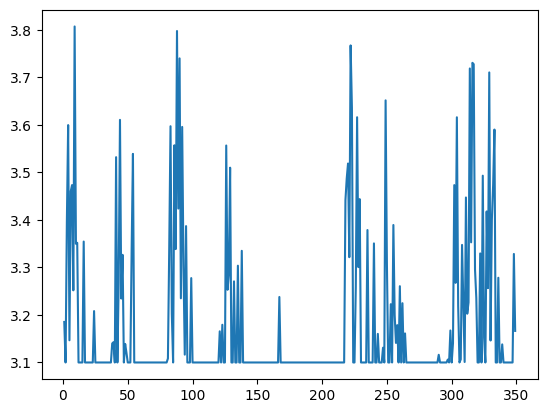
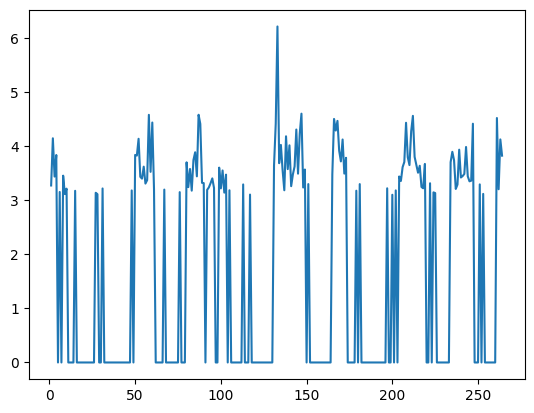
Finally made the gradient frame key frame extraction possible

diff --git a/Tutorials/Camera/Camera_Test5.py b/Tutorials/Camera/Camera_Test5.py
@@ -4,7 +4,9 @@ import matplotlib.pyplot as plt
 import Application.utils as utils
 import Application.HandTrackingModule as HTM
 import Application.SignClassificationModule as SCM
+from tensorflow import keras
 import imutils
+import shutil
 import os
 
 # Open the camera
@@ -14,15 +16,46 @@ detector = HTM.HandDetector()
 text = 'Not Capturing'
 is_capturing = False
 
-frm_num_arr = []
-frm_gradients = []
-prevGradient = np.array([])
-frm_arr = []
-
-frm_num = 0
-figures_path = 'D:\Documents\Thesis\FSLRwithNLP\Tutorials\Camera\Figures'
-gradient_thresh_value = 3.1
+GRADIENT_THRESH_VALUE = 3.1
 TEN_MILLION = 10000000.0
+THRESHOLD = 40.0
+
+keyframes_arr, crop_frm_arr, frm_arr, frm_num_arr, frm_gradients = [], [], [], [], []
+prevGradient = np.array([])
+prev_frm_sum, start_index, end_index, frm_num = TEN_MILLION, 0, 0, 0
+
+figures_path = 'D:\Documents\Thesis\FSLRwithNLP\Tutorials\Camera\Figures'
+keyframes_path = 'D:\Documents\Thesis\FSLRwithNLP\Tutorials\Camera\keyframes'
+cropped_img_path = 'D:\Documents\Thesis\FSLRwithNLP\Tutorials\Camera\keyframes\cropped'
+model = keras.models.load_model('D:\Documents\Thesis\Experimental_Models\Part2_FSLR_CNN_Model(30-epochs)-accuracy_0.91-val_accuracy_0.91-loss_0.27.h5')
+
+
+def predict(img_arr, interval):
+    temp_sentence = []
+    temp_score = []
+    temp_crop_img = []
+    index = 0
+    while index < len(img_arr):
+        try:
+            crop_img, roi = utils.preprocess_image(img_arr[index])
+            predictions, top_predictions = SCM.classify_image(roi, model)
+            score = top_predictions[4][1]
+            if score >= THRESHOLD:
+                word = top_predictions[4][0]
+                temp_sentence.append(word)
+                temp_score.append(score)
+                temp_crop_img.append(crop_img)
+        except Exception as exc:
+            pass
+        index += interval
+
+    most_occuring_word = max(set(temp_sentence), key=temp_sentence.count)
+    frm_position = temp_sentence.index(most_occuring_word)
+    frm_score = temp_score[frm_position]
+    crop_img = temp_crop_img[frm_position]
+    return most_occuring_word, frm_position, frm_score, crop_img
+
+
 
 while cap.isOpened():
     _, frame = cap.read()
@@ -45,7 +78,6 @@ while cap.isOpened():
 
             try:
                 currFrame = utils.convert_to_grayscale(frameCopy)
-                # currFrame = utils.resize_image(currFrame, height=120, width=120)
                 sobelx = cv2.Sobel(currFrame, cv2.CV_64F, 1, 0, ksize=cv2.FILTER_SCHARR)
                 sobely = cv2.Sobel(currFrame, cv2.CV_64F, 0, 1, ksize=cv2.FILTER_SCHARR)
                 currGradient = np.sqrt(np.square(sobelx) + np.square(sobely))
@@ -54,16 +86,30 @@ while cap.isOpened():
                     frm_diff = cv2.absdiff(currGradient, prevGradient)
                     frm_sum = cv2.sumElems(frm_diff)
                     frm_sum = frm_sum[0]/TEN_MILLION
-                    if frm_sum < gradient_thresh_value:
-                        frm_sum = gradient_thresh_value
+                    if frm_sum < GRADIENT_THRESH_VALUE:
+                        img_name = os.path.join(keyframes_path, 'keyframe_' + str(frm_num) + '.jpg')
+                        cv2.imwrite(img_name, frameCopy)
+                        frm_sum = 0.0
+
+                        if prev_frm_sum != 0:
+                            start_index = frm_num
+                        else:
+                            end_index = frm_num
+                    else:
+                        if prev_frm_sum == 0 and start_index < end_index:
+                            keyframes_arr.append((start_index, end_index))
+
+                    prev_frm_sum = frm_sum
+
                     print(frm_sum, frm_num)
 
                     frm_gradients.append(frm_sum)
                     frm_num_arr.append(frm_num)
-                    frm_arr.append(frame)
 
                 cv2.rectangle(frame, pts_upper_left, pts_lower_right, (255, 0, 0), 3)
                 prevGradient = currGradient
+                frm_arr.append(frameCopy)
+                crop_frm_arr.append(roi)
                 frm_num += 1
             except Exception as exc:
                 pass
@@ -74,21 +120,46 @@ while cap.isOpened():
         break
     elif key == ord('s'):
         if not is_capturing:
+            try:
+                shutil.rmtree(keyframes_path)
+            except OSError as e:
+                print("Error: %s - %s." % (e.filename, e.strerror))
+            os.makedirs(keyframes_path)
+            os.makedirs(cropped_img_path)
+
             text = 'Capturing'
             is_capturing = True
     elif key == ord('e'):
         if is_capturing:
+            # print(keyframes_arr)
             plt.plot(frm_num_arr, frm_gradients)
             plt.savefig(os.path.join(figures_path, 'Figures.png'), bbox_inches='tight')
             plt.show()
 
-            # for frm_gradient in frm_gradients:
-            #     if frm_gradient == gradient_thresh_value:
+            prev_word = ''
+            sentence = []
+            for (start_frm, end_frm) in keyframes_arr:
+                length = end_frm - start_frm + 1
+                if length > 2:
+                    if length <= 5:
+                        word, frm_position, frm_score, crop_img = predict(crop_frm_arr[start_frm: end_frm + 1], 1)
+                    else:
+                        interval = length // 5
+                        word, frm_position, frm_score, crop_img = predict(crop_frm_arr[start_frm: end_frm + 1], interval)
 
-            frm_num_arr = []
-            frm_gradients = []
-            frm_arr = []
-            frm_num = 0
+                    frm_position += start_frm
+                    if word != prev_word:
+                        img_crop_path = os.path.join(cropped_img_path, str(frm_position) + '_'
+                                                     + word + '_' + str(frm_score) + '.jpg')
+                        cv2.imwrite(img_crop_path, crop_img)
+                        sentence.append(word)
+                        prev_word = word
+                    print('From frame {} to {}: {} total frames {}'.format(start_frm, end_frm, length, word))
+
+            print(sentence)
+            keyframes_arr, frm_arr, frm_num_arr, frm_gradients, sentence = [], [], [], [], []
+            prevGradient = np.array([])
+            prev_frm_sum, start_index, end_index, frm_num = TEN_MILLION, 0, 0, 0
 
             text = 'Not Capturing'
             is_capturing = False
